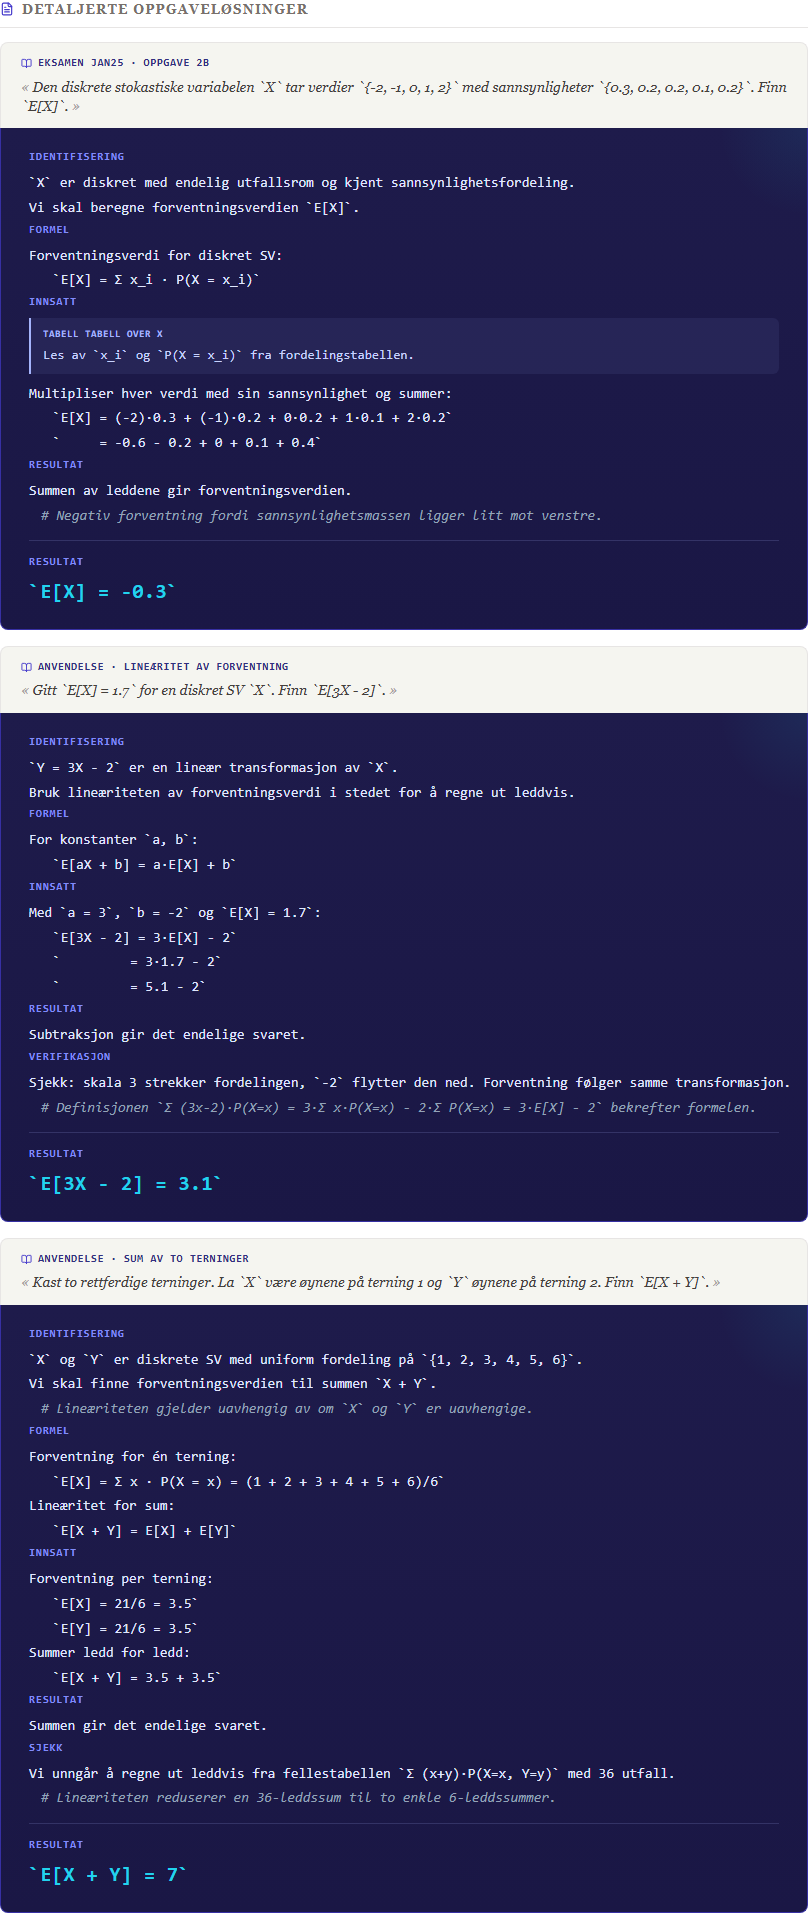
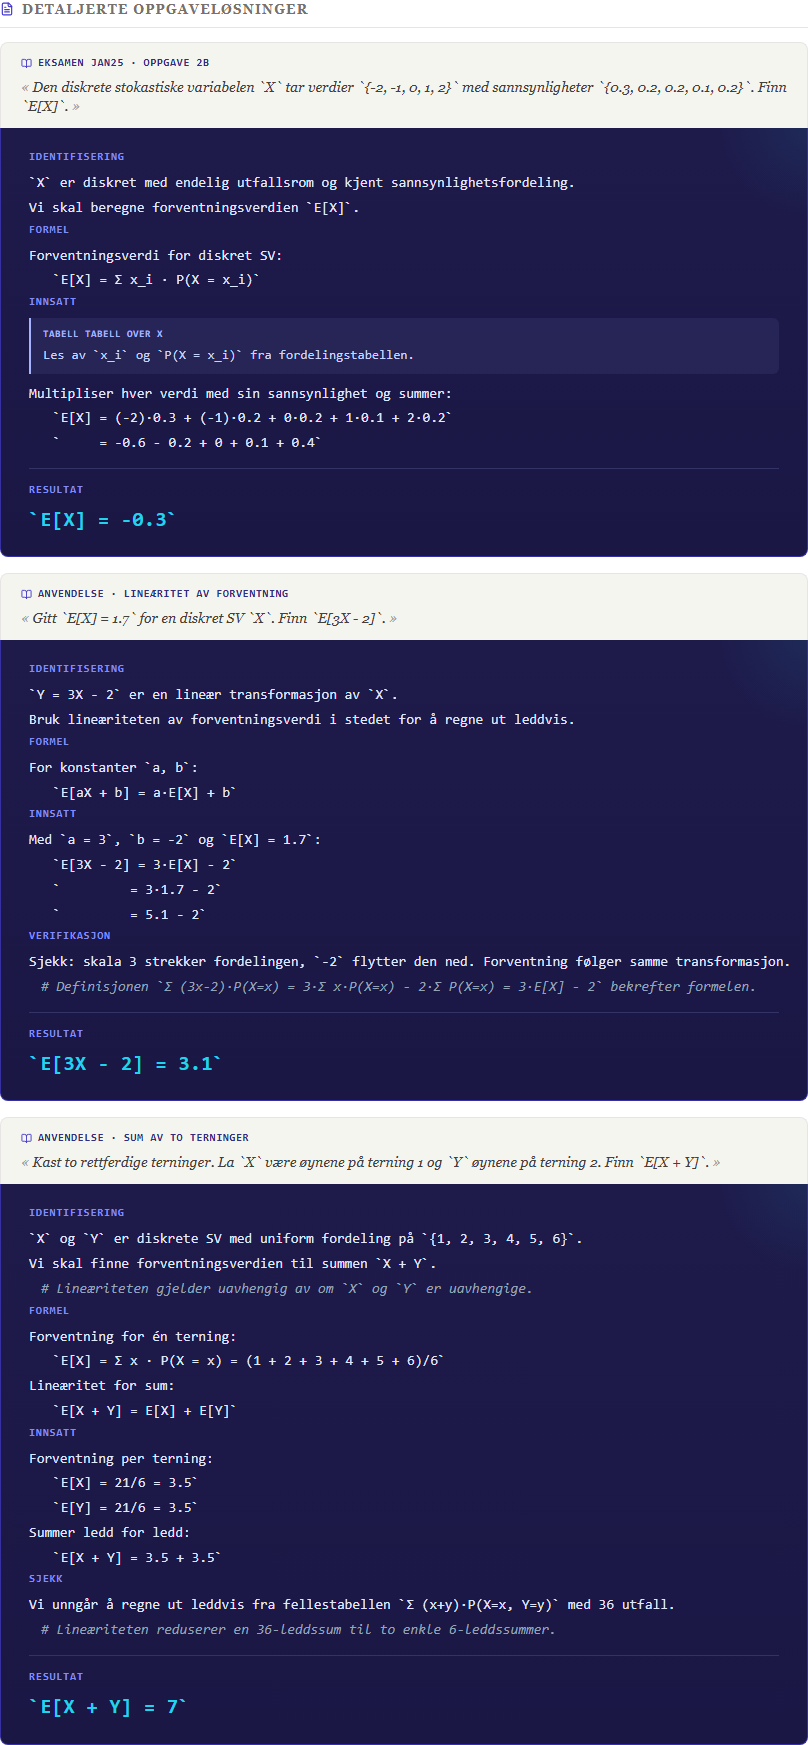
content: drop redundant Resultat sub-blocks from detailed solutions
Several sub-agents wrote a section labeled 'Resultat' inside the
sections array AND populated the top-level result field, so the
final answer rendered twice. Stripped 68 such sub-blocks across
14 entries (binomial, forventningsverdi, komplementregelen,
marginalfordeling, normalfordeling, produktregel, regresjon-* (4),
total-sannsynlighet, unionssetningen, uordnet-utvalg-uten-tilbakelegging,
varians-standardavvik-diskret).

Cleanup script kept at scripts/strip_redundant_resultat.py — line-based
removal (10-space-indent label match) so it's idempotent and doesn't
disturb other YAML formatting.

Verified: 0 Resultat sub-blocks remain; 97/97 tests still pass;
visual smoke confirms each solution now shows exactly one RESULTAT
line at the bottom (the top-level result field, rendered by the
DetailedSolution component).

diff --git a/scripts/strip_redundant_resultat.py b/scripts/strip_redundant_resultat.py
@@ -1,0 +1,84 @@
+#!/usr/bin/env python3
+"""Remove redundant `- label: "Resultat"` sub-blocks from `sections:` arrays
+in entry YAML files. Some sub-agents wrote a section labeled "Resultat" inside
+sections AND also populated the top-level `result:` field, which made the
+final answer render twice on the entry page.
+
+Strategy: line-based deletion. Identify each `- label: "Resultat"` line at
+exactly 10-space indent (the level used inside `sections:`), then drop lines
+until the indent returns to ≤10 spaces. Idempotent — running twice is safe.
+"""
+from __future__ import annotations
+import glob
+import io
+import re
+import sys
+
+LABEL_LINE = re.compile(r'^( {10})- label: ["\']?Resultat["\']?\s*$')
+
+def strip_file(path: str) -> int:
+    """Returns number of Resultat sub-blocks removed."""
+    with io.open(path, "r", encoding="utf-8") as f:
+        lines = f.readlines()
+
+    out: list[str] = []
+    i = 0
+    removed = 0
+    while i < len(lines):
+        m = LABEL_LINE.match(lines[i])
+        if not m:
+            out.append(lines[i])
+            i += 1
+            continue
+        # Found a "- label: 'Resultat'" at the section level.
+        # Drop this line and all following lines whose indent is > 10 spaces
+        # (i.e. belong to this section's body).
+        i += 1
+        while i < len(lines):
+            ln = lines[i]
+            stripped = ln.lstrip(" ")
+            indent = len(ln) - len(stripped)
+            if stripped == "" or stripped == "\n":
+                # Blank line — keep it associated with the deleted block
+                i += 1
+                continue
+            if indent > 10:
+                i += 1
+                continue
+            break
+        removed += 1
+
+    if removed:
+        with io.open(path, "w", encoding="utf-8", newline="") as f:
+            f.writelines(out)
+    return removed
+
+
+def main():
+    paths = sorted(glob.glob("content/entries/*.yaml"))
+    total = 0
+    for p in paths:
+        n = strip_file(p)
+        if n:
+            print(f"{p}: removed {n} Resultat sub-block(s)")
+            total += n
+    print(f"\nTotal: {total} sub-blocks removed across {sum(1 for p in paths if strip_file(p) == 0 and ('content' in p))} files (already idempotent on second run).")
+    print("Verifying YAML still parses…")
+    try:
+        import yaml
+    except ImportError:
+        print("(skipped — pyyaml not on path)")
+        return 0
+    for p in paths:
+        try:
+            with io.open(p, "r", encoding="utf-8") as f:
+                yaml.safe_load(f)
+        except Exception as e:
+            print(f"PARSE FAIL: {p}: {e}", file=sys.stderr)
+            return 1
+    print("All entry YAMLs parse cleanly.")
+    return 0
+
+
+if __name__ == "__main__":
+    sys.exit(main())
